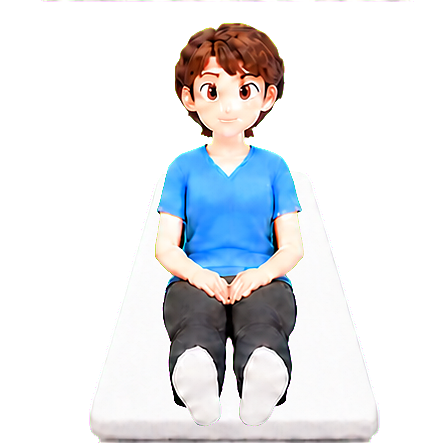
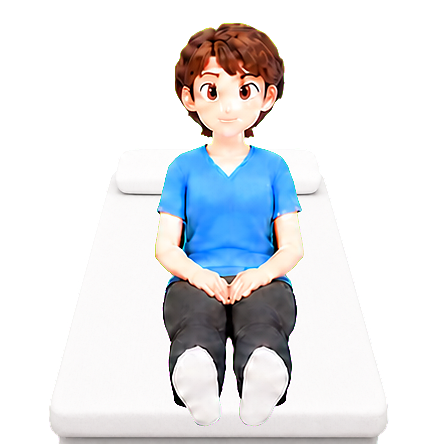
Support full-image backgrounds & subject offset
Add fixed_background_image and subject_offset options to build_maneuver_gifs.py so a full background image can be resized/composited and subject frames can be shifted before composing. Update logic to apply subject offset, to composite a per-frame resized background, and to preserve existing fixed-background-by-sheet behavior. Adjust a call site to use the new fixed_background_image and subject_offset. Also include regenerated maneuver assets (frame PNGs, GIF, and master RGBA) for the epley-posterior maneuvers.

diff --git a/scripts/build_maneuver_gifs.py b/scripts/build_maneuver_gifs.py
@@ -124,6 +124,8 @@ def build(
     frame_overrides: dict[int, Path] | None = None,
     copy_right_indices: dict[int, int] | None = None,
     fixed_background: tuple[Path, int] | None = None,
+    fixed_background_image: Path | None = None,
+    subject_offset: tuple[int, int] = (0, 0),
 ) -> list[dict[str, object]]:
     rgba_sheet = chroma_to_alpha(Image.open(source))
     masters = ASSET_ROOT / "masters"
@@ -136,10 +138,21 @@ def build(
         right[target] = right[source_index].copy()
     for index in flip_right_indices or set():
         right[index] = right[index].transpose(Image.Transpose.FLIP_LEFT_RIGHT)
+    if subject_offset != (0, 0):
+        shifted_frames = []
+        for frame in right:
+            shifted = Image.new("RGBA", frame.size, (0, 0, 0, 0))
+            shifted.alpha_composite(frame, subject_offset)
+            shifted_frames.append(shifted)
+        right = shifted_frames
     if fixed_background is not None:
         background_source, background_index = fixed_background
         background_sheet = chroma_to_alpha(Image.open(background_source))
         background = split_grid(background_sheet, columns, rows, count)[background_index]
+        right = [Image.alpha_composite(background, frame) for frame in right]
+    if fixed_background_image is not None:
+        background = chroma_to_alpha(Image.open(fixed_background_image))
+        background = background.resize(right[0].size, Image.Resampling.LANCZOS)
         right = [Image.alpha_composite(background, frame) for frame in right]
     right = [polish_frame(frame) for frame in right]
     compose_grid(right, columns, rows).save(masters / f"{maneuver}-right-rgba.png")
@@ -173,10 +186,13 @@ def main() -> None:
                 7,
                 [0, 1, 2, 3, 4, 5],
                 [700, 700, 1800, 1800, 1800, 1800],
-                fixed_background=(
-                    generated / "exec-e8cc24b8-2829-474b-9ce9-dfa22544e60b.png",
-                    6,
+                frame_overrides={
+                    5: generated / "exec-9865b974-1b07-4dc7-974d-ca858ec92935.png"
+                },
+                fixed_background_image=(
+                    generated / "exec-7119533c-8e52-4764-94b5-c2baab35a01a.png"
                 ),
+                subject_offset=(48, 0),
             ),
             "gufoni-horizontal-geotropic": build(
                 "gufoni-horizontal-geotropic",

diff --git a/public/assets/vertigo-maneuvers-v2/REVIEW.md b/public/assets/vertigo-maneuvers-v2/REVIEW.md
@@ -5,6 +5,8 @@
 - Epley frame 04 cervical anatomy was reconstructed to match frame 03 neck length, width, shoulder attachment, and extension, with rotation but no lateral bending.
 - Right Epley now ends in edge sitting on the screen-right long edge, with both legs hanging off the right side after rising from left side-lying; the left asset is its exact mirror.
 - Right Epley frame 05 was compared at 0:47-0:54 with the Michigan Medicine Right Epley video. The final fixed-camera mapping places the chest/face toward screen-right and the back toward screen-left for true left side-lying, while the shoulder pillow remains visible at the head end.
+- The right Epley patient layer is anchored 48 pixels toward the screen-right bed edge from the first frame onward, so the final edge-sitting pelvis reaches that edge and both lower legs clear the mattress. The left sequence mirrors this placement.
+- Right Epley frame 06 keeps the torso and legs directed toward the screen-right bed edge while the head remains turned toward screen-left in continuity with frame 05.
 - All exported frames now receive a restrained RGB-only focus correction; alpha geometry and frame registration remain unchanged.
 - Dix-Hallpike frame 03 was revised so the pillow supports the upper shoulders only and the occiput hangs visibly below the support with approximately 20 to 25 degrees of extension.
 - Epley frames 03 and 04 received the same more visible shoulder-supported head-hanging position while retaining their opposite 45-degree yaw directions.
